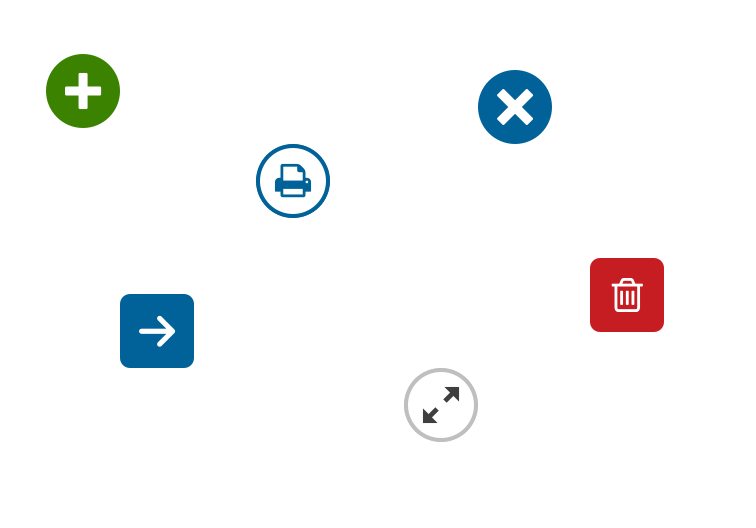
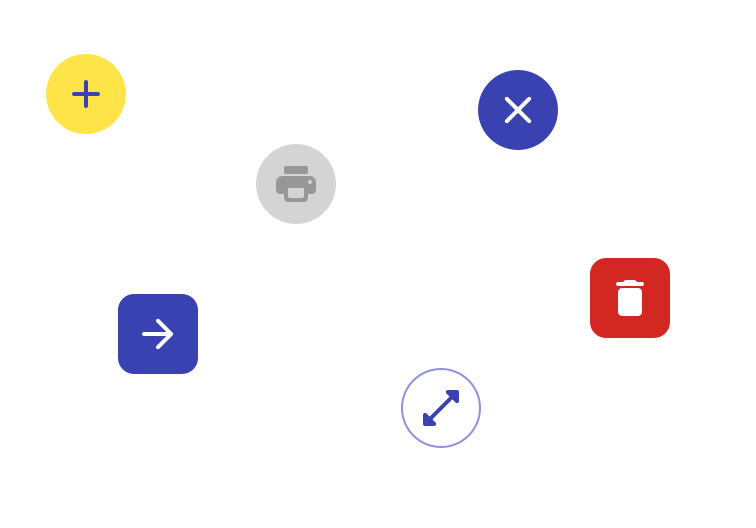
docs: update buttons design guidelines (#695)
* docs: update buttons design guidelines

* Create brown-moons-call.md

* Update website/react-magma-docs/src/pages/design/button.mdx

* Update website/react-magma-docs/src/pages/design/button.mdx

diff --git a/.changeset/brown-moons-call.md b/.changeset/brown-moons-call.md
@@ -1,0 +1,5 @@
+---
+"react-magma-docs": major
+---
+
+docs: update buttons design guidelines
